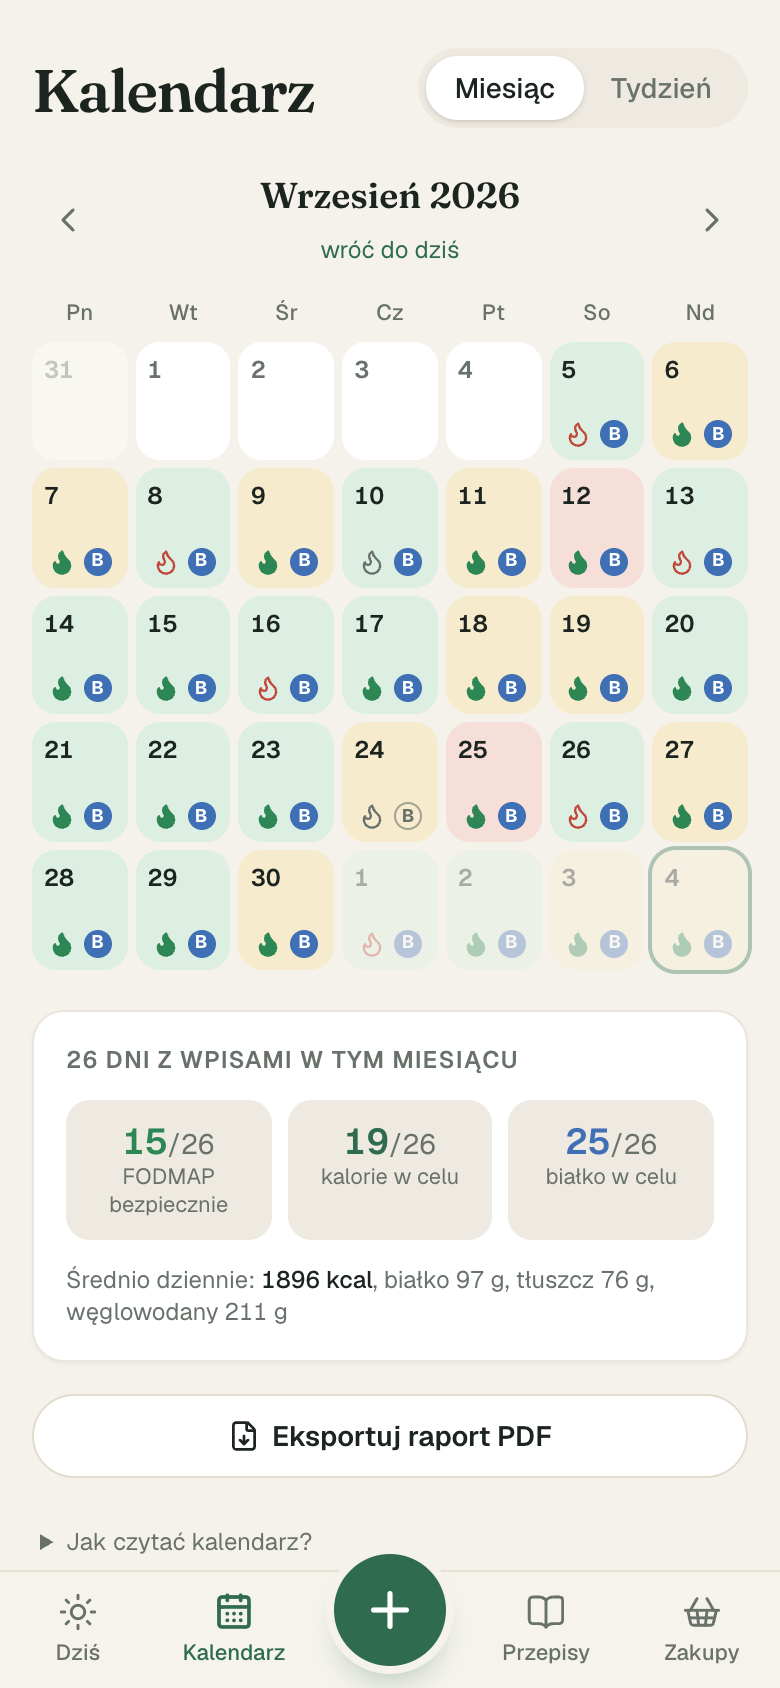
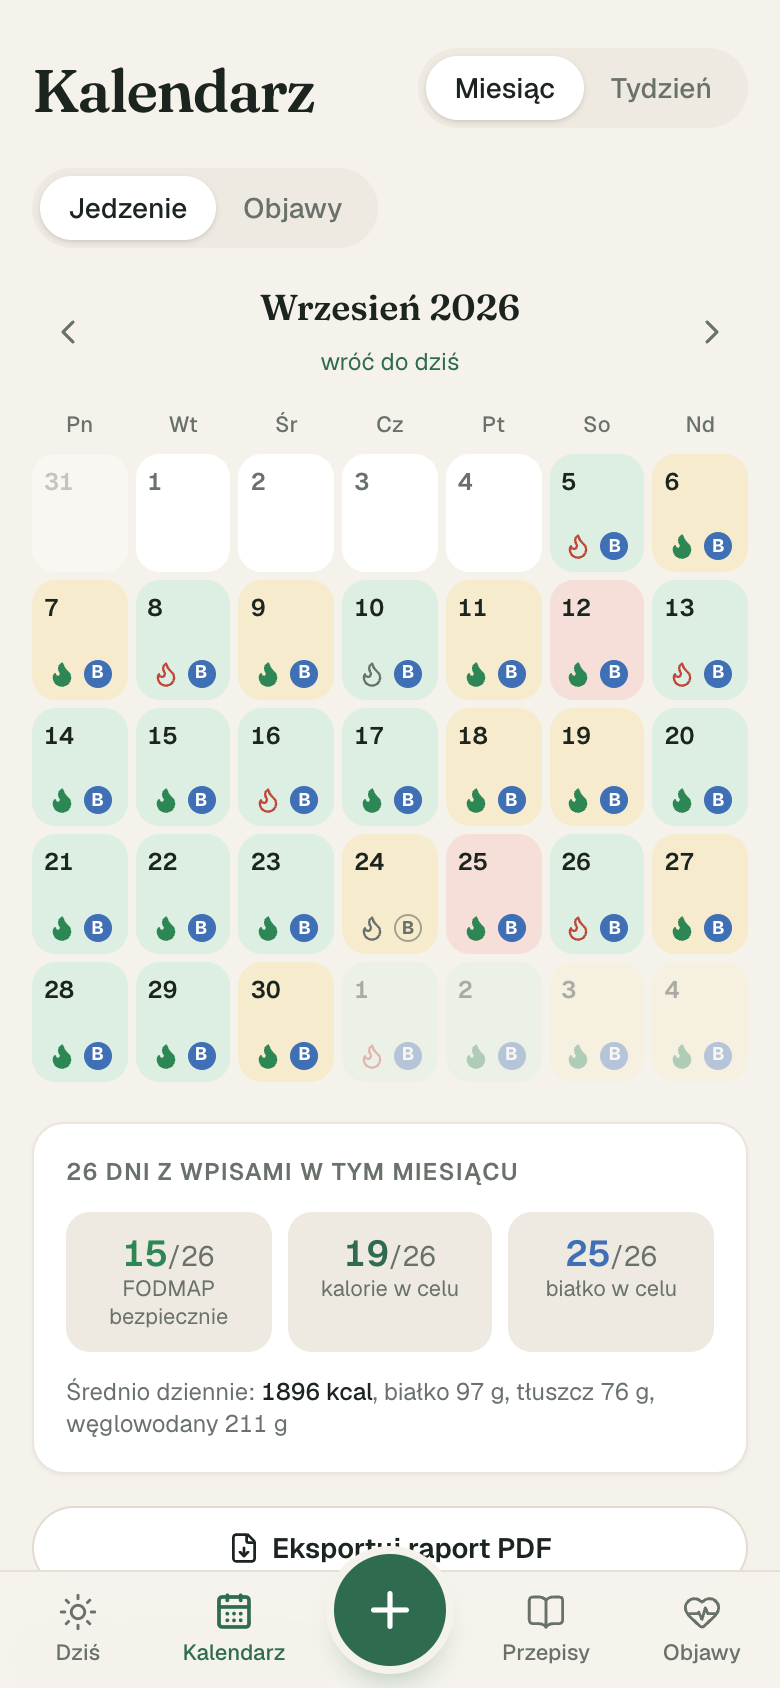
Add symptom tracking to the Low FODMAP post and name Ollama in Health.
The Low FODMAP post gets a paragraph and screenshots about logging
symptoms, and its other screenshots are retaken with the new navigation
and the report that now includes symptoms. The Health post now says the
local model is an Ollama model.

diff --git a/pl/sibo/index.html b/pl/sibo/index.html
@@ -11,7 +11,7 @@
   <meta property="og:title" content="Low FODMAP – szczupag">
   <meta property="og:description" content="Dziennik żywieniowy, który pomaga śledzić FODMAP-y w całych posiłkach. Zbudowany z pomocą Claude w jeden wieczór.">
   <meta property="og:url" content="https://szczupag.com/pl/sibo/">
-  <meta property="og:image" content="https://szczupag.com/sibo/today.png">
+  <meta property="og:image" content="https://szczupag.com/sibo/today.png?v=2">
   <meta property="og:locale" content="pl_PL">
   <meta property="og:type" content="article">
   <link rel="icon" type="image/svg+xml" href="/icons/favicon.svg">
@@ -88,21 +88,31 @@
 
       <figure>
         <div class="phones">
-          <a href="/sibo/today.png"><img src="/sibo/today.png" alt="Ekran Dziś: pozostałe kalorie, białko, tłuszcz i węglowodany oraz każdy posiłek z etykietą FODMAP." width="780" height="1688"></a>
-          <a href="/sibo/calendar.png"><img src="/sibo/calendar.png" alt="Kalendarz miesięczny z dniami pokolorowanymi według obciążenia FODMAP i statystykami miesiąca." width="780" height="1688"></a>
-          <a href="/sibo/recipes.png"><img src="/sibo/recipes.png" alt="Przepisy podzielone na śniadania i obiady, każdy z kaloriami i etykietą FODMAP." width="780" height="1688"></a>
+          <a href="/sibo/today.png?v=2"><img src="/sibo/today.png?v=2" alt="Ekran Dziś: pozostałe kalorie, białko, tłuszcz i węglowodany oraz każdy posiłek z etykietą FODMAP." width="780" height="1688"></a>
+          <a href="/sibo/calendar.png?v=2"><img src="/sibo/calendar.png?v=2" alt="Kalendarz miesięczny z dniami pokolorowanymi według obciążenia FODMAP i statystykami miesiąca." width="780" height="1688"></a>
+          <a href="/sibo/recipes.png?v=2"><img src="/sibo/recipes.png?v=2" alt="Przepisy podzielone na śniadania i obiady, każdy z kaloriami i etykietą FODMAP." width="780" height="1688"></a>
         </div>
         <figcaption>Dzisiejsze posiłki, miesiąc w skrócie i przepisy.</figcaption>
       </figure>
 
       <p>Kalendarz koloruje każdy dzień według obciążenia FODMAP i zaznacza, czy zmieściłam się w celu kalorycznym i białkowym, a pod spodem jest podsumowanie całego miesiąca. Przepisy mają swoje składniki i etykietę FODMAP na porcję. Można je zapisać w dzienniku za jednym razem albo przenieść ich składniki prosto na listę zakupów.</p>
 
-      <p>Jest też eksport do PDF. Wybieram okres i dostaję raport ze średnimi na tle celów, przeglądem dzień po dniu, informacją, które grupy FODMAP przekroczyły limit i przez co, oraz każdym posiłkiem rozpisanym na gramy. Przydaje się, gdy chcę pokazać swój jadłospis dietetykowi i upewnić się, że wszystko robię dobrze.</p>
+      <p>Później dodałam też śledzenie objawów, w osobnej zakładce Objawy. Zapisuję tam wypróżnienia według skali bristolskiej oraz objawy ze strony brzucha: wzdęcia, ból, skurcze, gazy i burczenie. Dodanie wzdęć to dwa kliknięcia: wybieram je z kafelków i zaznaczam, jak bardzo są nasilone, a aktualna godzina wpisuje się sama. Przy każdym objawie widać też posiłki zjedzone w ciągu ośmiu godzin wcześniej, razem z ich etykietami FODMAP, więc łatwiej wyłapać, co mogło go wywołać. Kalendarz też można przełączyć na objawy, z podsumowaniem całego miesiąca.</p>
+
+      <figure>
+        <div class="phones two">
+          <a href="/sibo/bloating.png"><img src="/sibo/bloating.png" alt="Ekran Objawy: dzisiejsze wypróżnienie i wcześniejsze wzdęcia z posiłkami zjedzonymi przed nimi, a niżej dodawanie wzdęć z godziną, opcjonalną notatką i trzema przyciskami nasilenia." width="780" height="1688"></a>
+          <a href="/sibo/calendar-symptoms.png"><img src="/sibo/calendar-symptoms.png" alt="Kalendarz miesięczny w widoku objawów, z kropkami wypróżnień i nasilenia oraz statystykami miesiąca." width="780" height="1688"></a>
+        </div>
+        <figcaption>Dodawanie wzdęć (wyżej wpisy z danego dnia) i miesiąc w widoku objawów.</figcaption>
+      </figure>
+
+      <p>Jest też eksport do PDF. Wybieram okres i dostaję raport ze średnimi na tle celów, przeglądem dzień po dniu, informacją, które grupy FODMAP przekroczyły limit i przez co, oraz każdym posiłkiem rozpisanym na gramy, razem z objawami z danego dnia. Przydaje się, gdy chcę pokazać swój jadłospis dietetykowi i upewnić się, że wszystko robię dobrze.</p>
 
       <figure class="paper">
         <div class="phones two">
-          <a href="/sibo/report-1.png"><img src="/sibo/report-1.png" alt="Pierwsza strona tygodniowego raportu PDF: średnie na tle celów, wykres dzień po dniu i grupy FODMAP, które przekroczyły limit." width="989" height="1400"></a>
-          <a href="/sibo/report-2.png"><img src="/sibo/report-2.png" alt="Strona raportu z posiłkami jednego dnia, gramaturą, kaloriami i makro." width="989" height="1400"></a>
+          <a href="/sibo/report-1.png?v=2"><img src="/sibo/report-1.png?v=2" alt="Pierwsza strona tygodniowego raportu PDF: średnie na tle celów, wykres dzień po dniu z objawami i wypróżnieniami oraz grupy FODMAP, które przekroczyły limit." width="989" height="1400"></a>
+          <a href="/sibo/report-2.png?v=2"><img src="/sibo/report-2.png?v=2" alt="Strona raportu z wypróżnieniem, objawami i posiłkami jednego dnia, gramaturą, kaloriami i makro." width="989" height="1400"></a>
         </div>
         <figcaption>Raport tygodniowy: strona z podsumowaniem i jeden z dni.</figcaption>
       </figure>

diff --git a/sibo/index.html b/sibo/index.html
@@ -12,7 +12,7 @@
   <meta property="og:title" content="Low FODMAP – szczupag">
   <meta property="og:description" content="A food diary for the low FODMAP diet that adds up FODMAP portions across a meal, built with Claude in one evening.">
   <meta property="og:url" content="https://szczupag.com/sibo/">
-  <meta property="og:image" content="https://szczupag.com/sibo/today.png">
+  <meta property="og:image" content="https://szczupag.com/sibo/today.png?v=2">
   <meta property="og:type" content="article">
   <link rel="icon" type="image/svg+xml" href="/icons/favicon.svg">
   <link rel="preconnect" href="https://fonts.googleapis.com">
@@ -88,21 +88,31 @@
 
       <figure>
         <div class="phones">
-          <a href="today.png"><img src="today.png" alt="Today screen: calories left, protein, fat and carbs, and each meal with a FODMAP label." width="780" height="1688"></a>
-          <a href="calendar.png"><img src="calendar.png" alt="Month calendar with days coloured by how the FODMAP load went, plus monthly stats." width="780" height="1688"></a>
-          <a href="recipes.png"><img src="recipes.png" alt="Recipes grouped into breakfasts and lunches, each with calories and a FODMAP label." width="780" height="1688"></a>
+          <a href="today.png?v=2"><img src="today.png?v=2" alt="Today screen: calories left, protein, fat and carbs, and each meal with a FODMAP label." width="780" height="1688"></a>
+          <a href="calendar.png?v=2"><img src="calendar.png?v=2" alt="Month calendar with days coloured by how the FODMAP load went, plus monthly stats." width="780" height="1688"></a>
+          <a href="recipes.png?v=2"><img src="recipes.png?v=2" alt="Recipes grouped into breakfasts and lunches, each with calories and a FODMAP label." width="780" height="1688"></a>
         </div>
         <figcaption>Today's meals, a month at a glance, and recipes.</figcaption>
       </figure>
 
       <p>The calendar colours each day by how the FODMAP load went and marks whether I hit my calorie and protein goals, with a summary for the whole month. Recipes keep their ingredients and a FODMAP label per serving, can be logged to the diary in one go, and can send their ingredients straight to the shopping list.</p>
 
-      <p>There's also a PDF export. I pick a period and get a report with averages against my goals, a day-by-day overview, which FODMAP groups went over the limit and because of what, and every meal listed with grams. It's useful when I want to show my meals to a dietitian and make sure I'm doing everything right.</p>
+      <p>Later I also added symptom tracking, in a separate Symptoms tab. I log bowel movements there using the Bristol scale, along with abdominal symptoms: bloating, pain, cramps, gas and rumbling. Logging bloating takes two taps: I pick it from the tiles and choose how strong it is, and the current time is filled in for me. Every symptom also lists the meals I ate in the eight hours before it, with their FODMAP labels, which makes it easier to spot what might have caused it. The calendar can switch to symptoms too, with a summary for the whole month.</p>
+
+      <figure>
+        <div class="phones two">
+          <a href="bloating.png"><img src="bloating.png" alt="Symptoms screen: today's bowel movement and an earlier bloating entry with the meals eaten before it, and below, logging bloating with the time, an optional note and three buttons for how strong it is." width="780" height="1688"></a>
+          <a href="calendar-symptoms.png"><img src="calendar-symptoms.png" alt="Month calendar in the symptoms view, with bowel movement dots, severity dots and monthly stats." width="780" height="1688"></a>
+        </div>
+        <figcaption>Logging bloating, with the day's entries above, and the month in the symptoms view.</figcaption>
+      </figure>
+
+      <p>There's also a PDF export. I pick a period and get a report with averages against my goals, a day-by-day overview, which FODMAP groups went over the limit and because of what, and every meal listed with grams, along with that day's symptoms. It's useful when I want to show my meals to a dietitian and make sure I'm doing everything right.</p>
 
       <figure class="paper">
         <div class="phones two">
-          <a href="report-1.png"><img src="report-1.png" alt="First page of a weekly PDF report: averages against goals, a day-by-day chart and FODMAP groups that went over the limit." width="989" height="1400"></a>
-          <a href="report-2.png"><img src="report-2.png" alt="A page of the report listing one day's meals with grams, calories and macros." width="989" height="1400"></a>
+          <a href="report-1.png?v=2"><img src="report-1.png?v=2" alt="First page of a weekly PDF report: averages against goals, a day-by-day chart with symptoms and bowel movements, and FODMAP groups that went over the limit." width="989" height="1400"></a>
+          <a href="report-2.png?v=2"><img src="report-2.png?v=2" alt="A page of the report with one day's bowel movement, symptoms and meals with grams, calories and macros." width="989" height="1400"></a>
         </div>
         <figcaption>A weekly report: the summary page and one of the days.</figcaption>
       </figure>

diff --git a/pl/health/index.html b/pl/health/index.html
@@ -60,7 +60,7 @@
 
       <p>Aplikacja trzyma w tym folderze iCloud dwa rodzaje plików. Oryginalne dokumenty są zapisane dokładnie w takiej postaci, w jakiej przyszły, i nigdy nie są zmieniane. Obok nich aplikacja zapisuje małe rekordy, po jednym dla każdego dokumentu, wizyty i badania, z najważniejszymi informacjami: datą, lekarzem, kategorią, tekstem wyciągniętym z dokumentu, a przy badaniach laboratoryjnych także każdą zmierzoną wartością. Wyszukiwanie działa na tych rekordach, a nie na samych PDF-ach, dlatego jest szybkie. Z nich zbudowane jest też wszystko, co widać w aplikacji, od osi czasu po wykresy.</p>
 
-      <p>Tworzenie tych rekordów jest w większości automatyczne. Aplikacja działa lokalnie na moim MacBooku, podobnie jak AI, z którego korzysta. Kiedy dodaję PDF, model językowy uruchomiony na samym laptopie, a nie w chmurze, czyta go, podpowiada datę, lekarza i kategorię, a wartości z badań przenosi do tabeli wyświetlanej obok oryginału, dzięki czemu mogę sprawdzić każdą liczbę przed zapisaniem.</p>
+      <p>Tworzenie tych rekordów jest w większości automatyczne. Aplikacja działa lokalnie na moim MacBooku, podobnie jak AI, z którego korzysta. Kiedy dodaję PDF, lokalny model Ollamy czyta go, podpowiada datę, lekarza i kategorię, a wartości z badań przenosi do tabeli wyświetlanej obok oryginału, dzięki czemu mogę sprawdzić każdą liczbę przed zapisaniem.</p>
 
       <figure>
         <a href="/pl/health/dashboard.png"><img src="/pl/health/dashboard.png" alt="Pulpit z najnowszymi wynikami badań i małymi wykresami trendu oraz ścieżkami leczenia według specjalizacji." width="1600" height="1000"></a>
@@ -81,7 +81,7 @@
         <figcaption>Jeden parametr w czasie, z zaznaczonym zakresem referencyjnym.</figcaption>
       </figure>
 
-      <p>Jest też opcjonalna analiza wyników. Może korzystać z lokalnego modelu albo z Claude'a. W tym drugim przypadku wysyłane są wyłącznie zanonimizowane wartości, a aplikacja przed prośbą o zgodę pokazuje dokładnie, co zostanie wysłane.</p>
+      <p>Jest też opcjonalna analiza wyników. Może korzystać z lokalnego modelu Ollamy albo z Claude'a. W tym drugim przypadku wysyłane są wyłącznie zanonimizowane wartości, a aplikacja przed prośbą o zgodę pokazuje dokładnie, co zostanie wysłane.</p>
 
       <p class="note">Zrzuty ekranu pokazują wymyślone dane demonstracyjne.</p>
     </article>

diff --git a/health/index.html b/health/index.html
@@ -60,7 +60,7 @@
 
       <p>The app keeps two kinds of files in that iCloud folder. The original documents are stored exactly as they came and are never modified. Next to them, the app writes small records, one for each document, visit and test result, with the details that matter: the date, doctor, category, the text extracted from the document and, for lab tests, every measured value. Searching runs over these records rather than through the PDFs themselves, which is why it's quick, and everything you see in the app, from the timeline to the charts, is built from them.</p>
 
-      <p>Creating those records is mostly automatic. The app runs locally on my MacBook, and so does the AI behind it. When I drop in a PDF, a language model running on the laptop itself, not in the cloud, reads it, suggests the date, doctor and category, and pulls lab values into a table shown next to the original document, so I can check every number before saving.</p>
+      <p>Creating those records is mostly automatic. The app runs locally on my MacBook, and so does the AI behind it. When I drop in a PDF, a local Ollama model reads it, suggests the date, doctor and category, and pulls lab values into a table shown next to the original document, so I can check every number before saving.</p>
 
       <figure>
         <a href="dashboard.png"><img src="dashboard.png" alt="Dashboard with the latest lab values and small trend lines, and care threads grouped by specialty." width="1600" height="1000"></a>
@@ -81,7 +81,7 @@
         <figcaption>One parameter over time, with the reference range shaded.</figcaption>
       </figure>
 
-      <p>There is also an optional analysis of results. It can use the local model as well, or Claude, in which case only de-identified values are sent, and the app shows exactly what will go out before asking for consent.</p>
+      <p>There is also an optional analysis of results. It can use the local Ollama model as well, or Claude, in which case only de-identified values are sent, and the app shows exactly what will go out before asking for consent.</p>
 
       <p class="note">Screenshots show made-up demo data.</p>
     </article>
